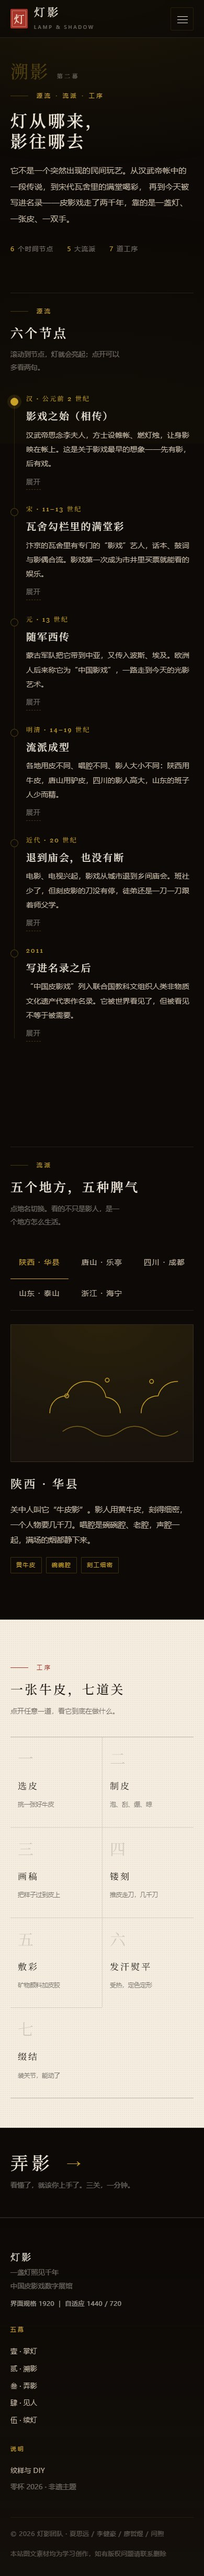
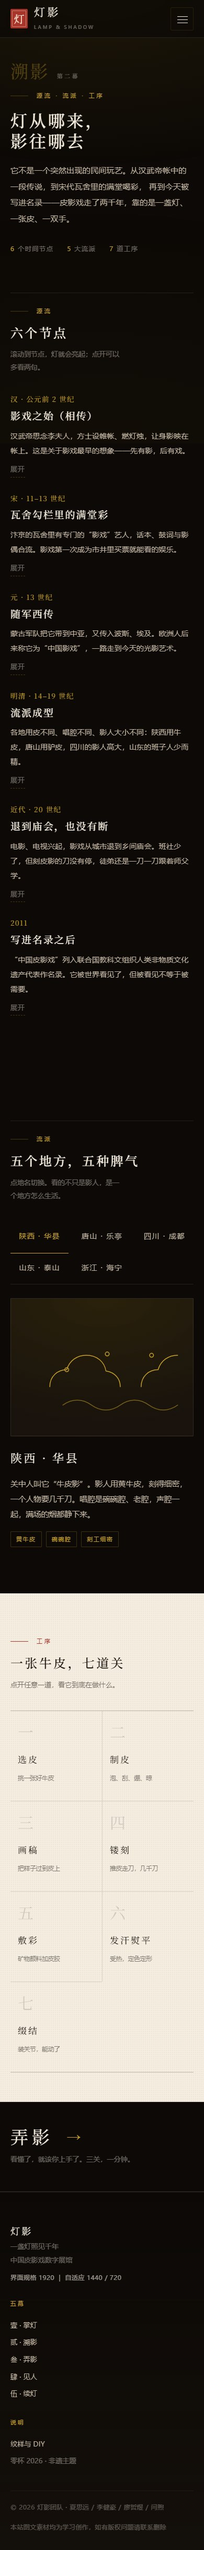
style: FE-05 版式变奏——年表左栏、DIY 预览吸顶
- 溯影时间轴改为年表版式：年份独立左栏右对齐、轴线移到栏间、正文右栏，移动端回落单列
- 展开按钮改 justify-self:start，不再拉出一条贯穿整栏的虚线下划线
- 续灯 DIY 预览吸顶（top = 导航高 + 24），右栏控件滚动时预览不动；宽度收到 460px，不再顶满整屏
- DIY 皮影补领口/腰带/下摆三条结构线
- 回归：30 组审计 0 报错 0 溢出

diff --git a/web/assets/css/components.css b/web/assets/css/components.css
@@ -133,11 +133,11 @@
 .quote em { color: var(--lamp); font-style: normal; }
 
 /* ---------- 时间轴 ---------- */
-.timeline { position: relative; margin-top: 8px; }
+.timeline { --tl-year: clamp(112px, 14vw, 186px); position: relative; margin-top: 8px; }
 .timeline::before {
   content: "";
   position: absolute;
-  left: 7px;
+  left: var(--tl-year);
   top: 6px;
   bottom: 6px;
   width: 1px;
@@ -152,13 +152,20 @@
   background: linear-gradient(180deg, var(--lamp), rgba(201, 162, 39, .2));
   transition: height .2s linear;
 }
-.tl-item { position: relative; padding: 0 0 clamp(26px, 3.6vw, 44px) clamp(30px, 3.4vw, 46px); }
+/* 年表：年份独立成左栏，正文右栏，中间一条轴线 */
+.tl-item {
+  position: relative;
+  display: grid;
+  grid-template-columns: var(--tl-year) minmax(0, 1fr);
+  column-gap: clamp(22px, 2.6vw, 42px);
+  padding: 0 0 clamp(30px, 4vw, 50px) 0;
+}
 .tl-item:last-child { padding-bottom: 0; }
 .tl-item::before {
   content: "";
   position: absolute;
-  left: 0;
-  top: 9px;
+  left: calc(var(--tl-year) - 7px);
+  top: 6px;
   width: 15px;
   height: 15px;
   border-radius: 50%;
@@ -171,10 +178,38 @@
   border-color: var(--lamp);
   box-shadow: 0 0 0 6px rgba(201, 162, 39, .12);
 }
-.tl-item__era { font-family: var(--num); font-size: 12px; letter-spacing: .2em; color: var(--lamp); }
-.tl-item__title { font-family: var(--serif); font-size: clamp(19px, 1.9vw, 24px); letter-spacing: .1em; margin: 6px 0 8px; }
-.tl-item__text { font-size: 14px; color: var(--paper-dim); line-height: 1.95; max-width: 52ch; }
+.tl-item__era {
+  grid-column: 1;
+  grid-row: 1 / span 5;
+  align-self: stretch;
+  text-align: right;
+  padding: 2px clamp(16px, 1.8vw, 26px) 0 0;
+  font-family: var(--serif);
+  font-size: clamp(13.5px, 1.3vw, 17px);
+  letter-spacing: .1em;
+  line-height: 1.7;
+  color: var(--lamp);
+}
+.tl-item__title,
+.tl-item__text,
+.tl-item__more,
+.tl-item__detail { grid-column: 2; }
+.tl-item__title { font-family: var(--serif); font-size: clamp(19px, 1.9vw, 24px); letter-spacing: .1em; margin: 0 0 10px; }
+.tl-item__text { font-size: 14px; color: var(--paper-dim); line-height: 2; max-width: 52ch; }
+
+@media (max-width: 720px) {
+  .timeline { --tl-year: 0px; }
+  .timeline::before { display: none; }
+  .tl-item { grid-template-columns: 1fr; column-gap: 0; padding-bottom: 28px; }
+  .tl-item::before { display: none; }
+  .tl-item__era { grid-row: auto; text-align: left; padding: 0 0 6px; }
+  .tl-item__title,
+  .tl-item__text,
+  .tl-item__more,
+  .tl-item__detail { grid-column: 1; }
+}
 .tl-item__more {
+  justify-self: start;
   margin-top: 10px;
   font-size: 12.5px;
   color: var(--paper-faint);
@@ -959,8 +994,13 @@
 
 /* ---------- DIY ---------- */
 .diy { display: grid; grid-template-columns: minmax(0, 1fr) minmax(0, .92fr); gap: clamp(22px, 3vw, 52px); align-items: start; }
-@media (max-width: 900px) { .diy { grid-template-columns: 1fr; } }
+@media (max-width: 900px) { .diy { grid-template-columns: 1fr; } .diy__preview { position: static; } }
 .diy__preview {
+  position: sticky;
+  top: calc(var(--nav-h) + 24px);
+  width: 100%;
+  max-width: 460px;
+  margin-inline: auto;
   border: 1px solid var(--hair);
   border-radius: var(--r-sm);
   background: radial-gradient(70% 60% at 50% 40%, rgba(201, 162, 39, .18), #0D0906 72%);

diff --git a/web/future.html b/web/future.html
@@ -240,6 +240,12 @@
               <!-- 手 -->
               <path d="M118 148 L132 148 L130 228 L122 236 L114 228 Z" class="diy-fill"/>
               <path d="M168 148 L182 148 L186 228 L178 236 L170 228 Z" class="diy-fill"/>
+              <!-- 衣纹：领口 / 腰带 / 下摆，让单色剪影也有结构 -->
+              <g fill="none" stroke="#3A1B0C" stroke-width="1.2" opacity=".5">
+                <path d="M132 158 H168"/>
+                <path d="M136 198 H164"/>
+                <path d="M134 252 H166"/>
+              </g>
               <!-- 头（由 JS 换） -->
               <path id="diyHead" d="M150 40c20 0 34 15 34 35 0 15-6 25-15 30v16h-38v-16c-9-5-15-15-15-30 0-20 14-35 34-35z" class="diy-fill"/>
               <!-- 纹样层 -->
